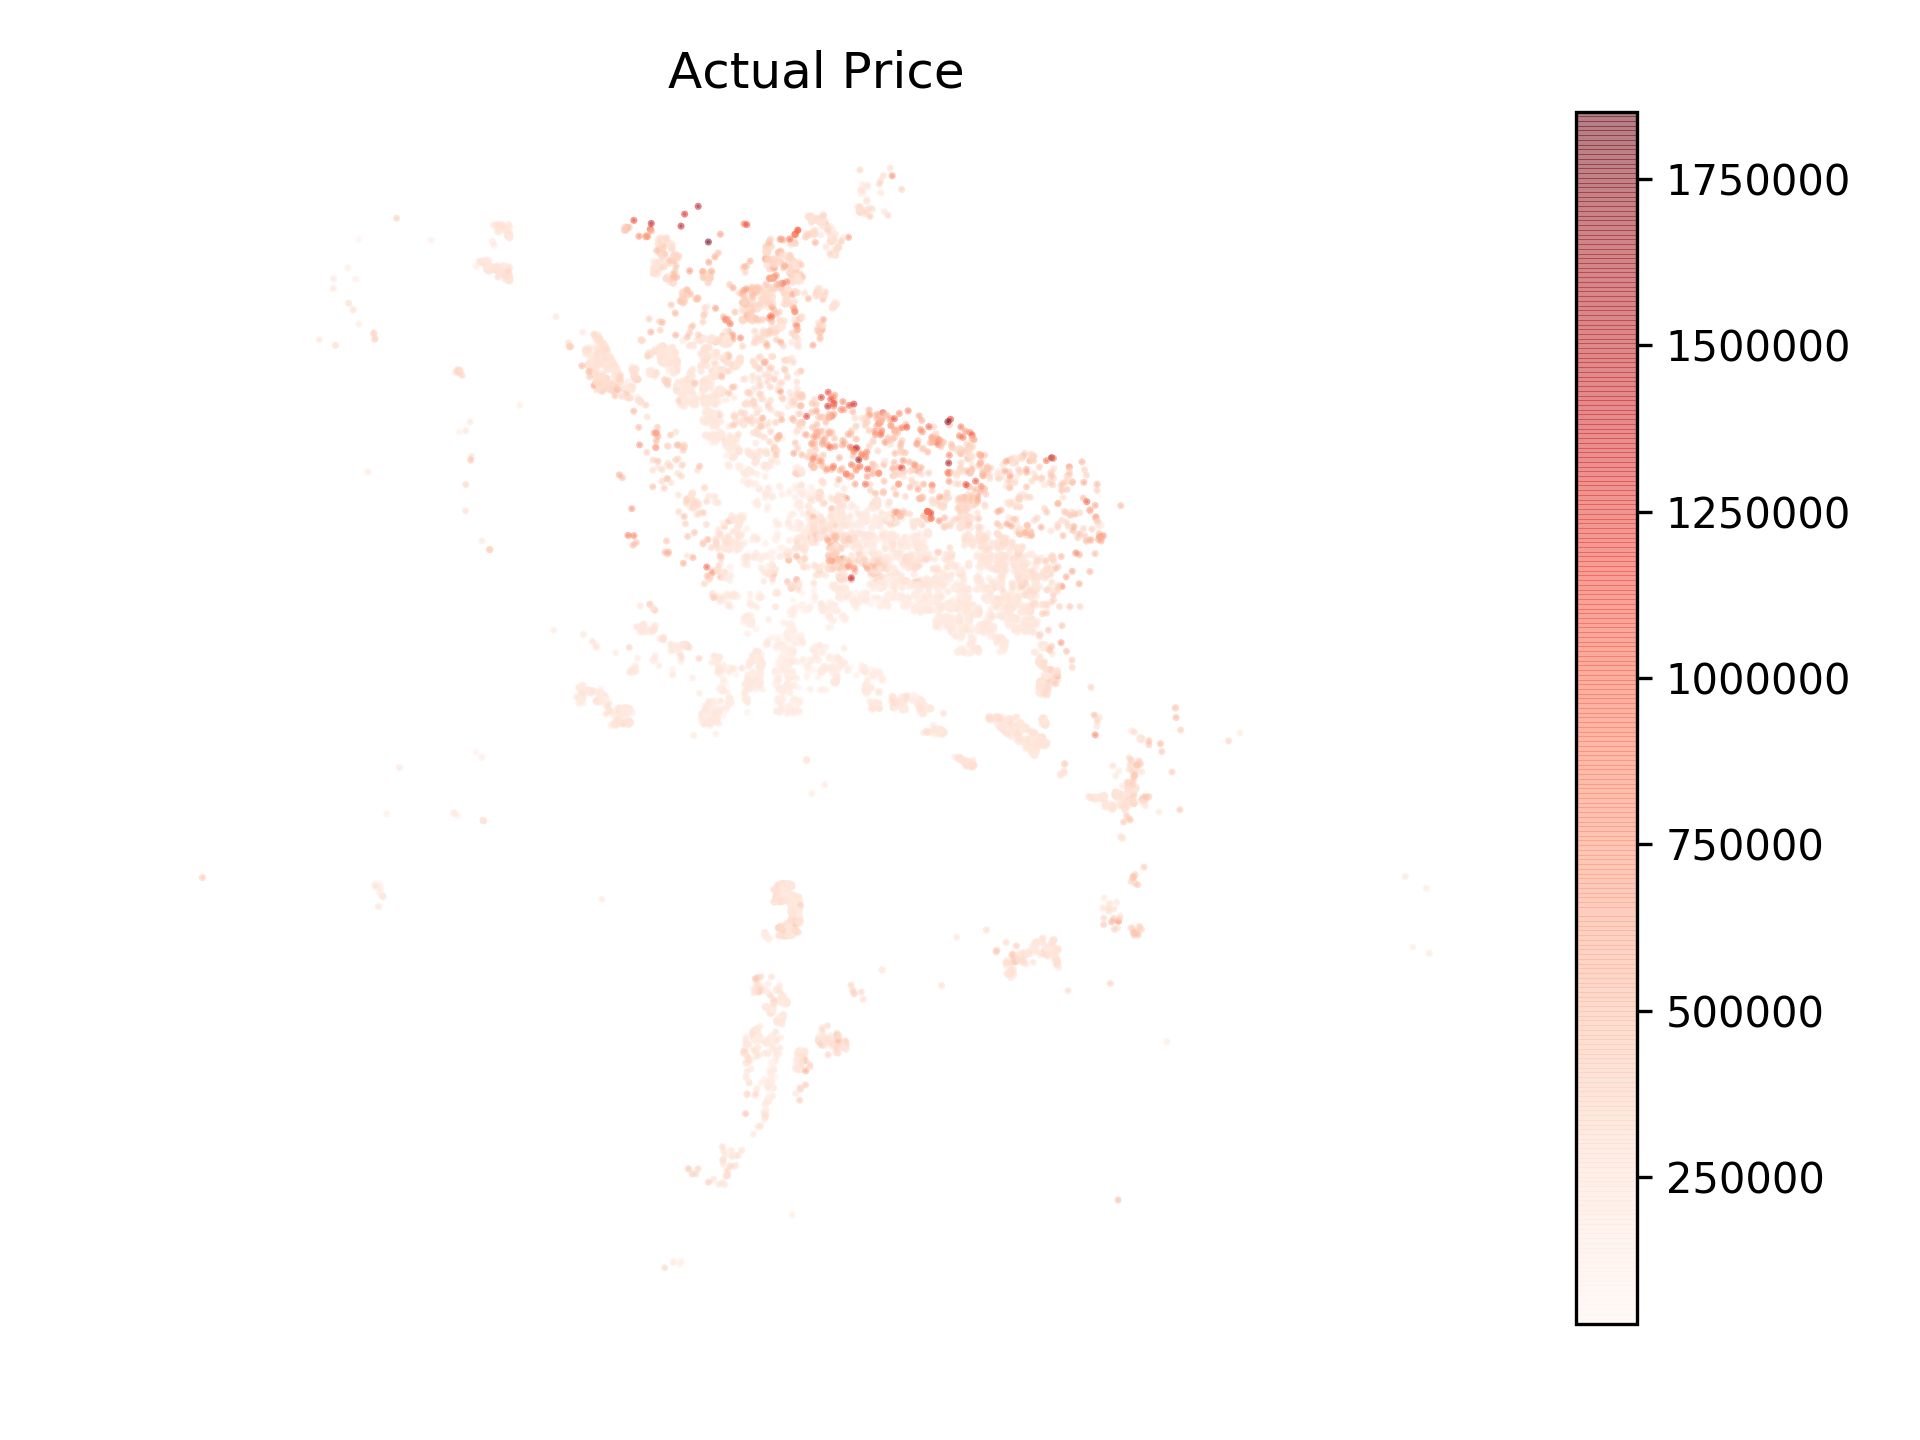
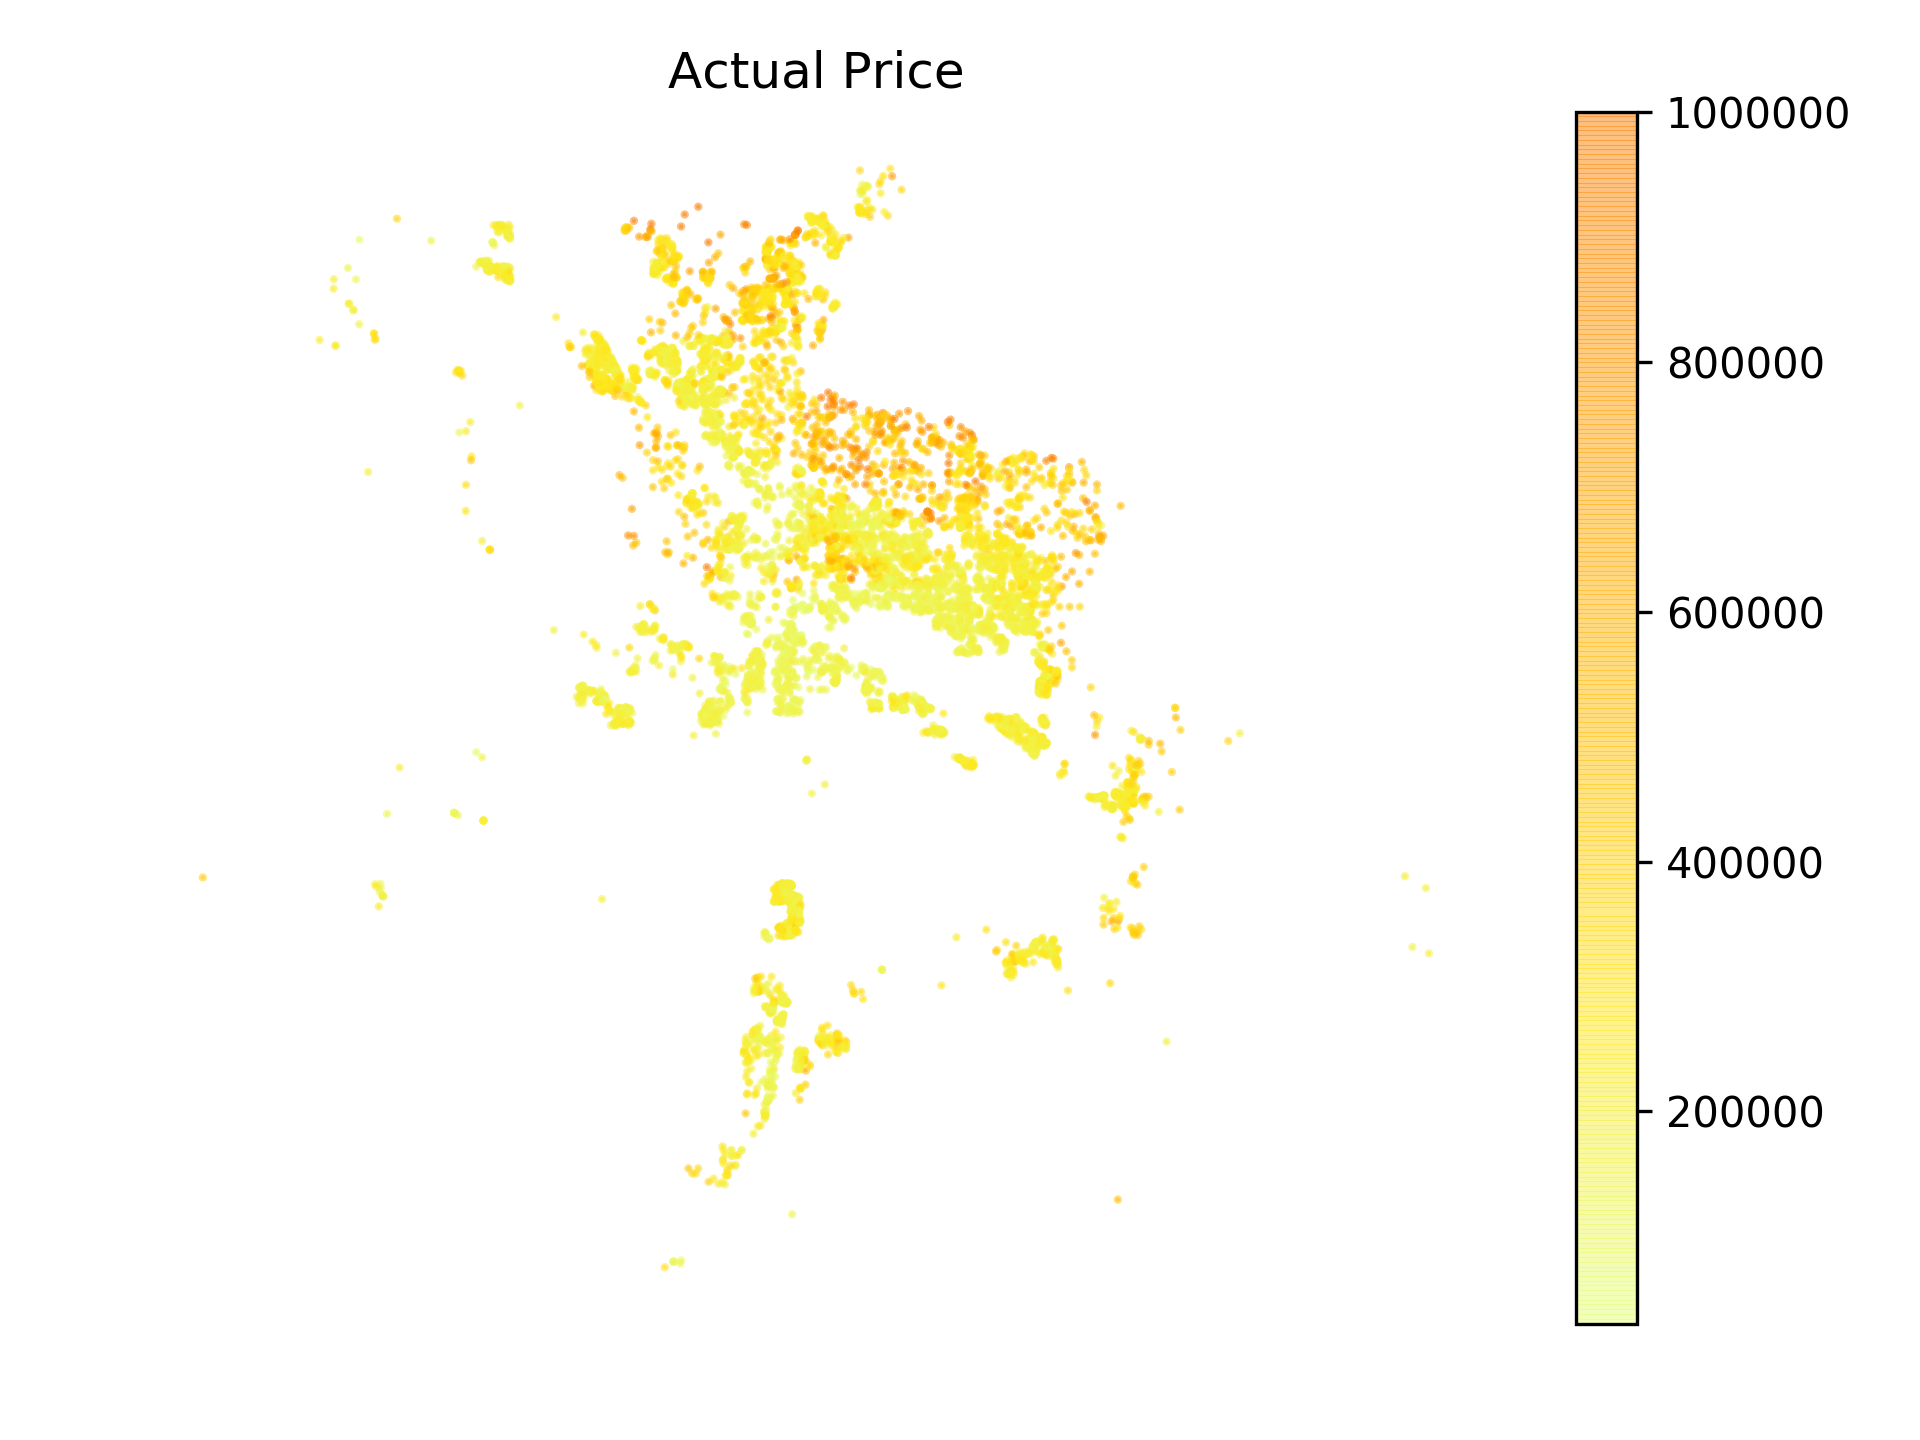
Added comments.

diff --git a/Advanced_Analysis/RandomForest.py b/Advanced_Analysis/RandomForest.py
@@ -168,15 +168,16 @@ if __name__ == "__main__":
     df_geographic["lon"] = df_hat["lon"]
     df_geographic["abs_percent_residual"] = abs(df_hat["predicted"] - df_hat[target]) / df_hat[target]
     # Residual color scheme
-    cmap = cm.get_cmap("Reds")
+    cmap = cm.get_cmap("Wistia")
     norm = (df_geographic["abs_percent_residual"] - df_geographic["abs_percent_residual"].min()) /\
            (df_geographic["abs_percent_residual"].max() - df_geographic["abs_percent_residual"].min())
     cutoff = .5
     norm_adj = df_geographic["abs_percent_residual"].apply(lambda x: min(x, cutoff))
     plt.figure()
-    plt.scatter(df_geographic["lon"], df_geographic["lat"], c=norm_adj, s=.5, cmap=cmap, alpha=.5)
+    plt.scatter(df_geographic["lon"], df_geographic["lat"], c=norm_adj, s=1, cmap=cmap, alpha=.5)
     plt.colorbar()
     plt.axis('off')
+    plt.figaspect(1)
     plt.title(f"{modelname} Absolute Percent Error (Capped at 50%)")
     plt.tight_layout()
     plt.savefig(f"figures/{modelname}_Abs_Geo_Residuals.png", dpi=dpi)
@@ -188,17 +189,19 @@ if __name__ == "__main__":
     df_geographic["lon"] = df_hat["lon"]
     df_geographic[target] = df_hat[target]
     # Residual color scheme
-    cmap = cm.get_cmap("Reds")
+    cmap = cm.get_cmap("Wistia")
     norm = (df_geographic[target] - df_geographic[target].min()) / \
            (df_geographic[target].max() - df_geographic[target].min())
-    cutoff = .5
+    cutoff = 1e6
+    adj = df_geographic[target].apply(lambda x: min(x, cutoff))
     #norm_adj = df_geographic[target].apply(lambda x: min(x, cutoff))
     plt.figure()
     #TODO
     #cbar.ax.set_yticklabels(np.arange(int(cbar_min), int(cbar_max + cbar_step), int(cbar_step)))
-    plt.scatter(df_geographic["lon"], df_geographic["lat"], c=df_geographic[target], s=.5, cmap=cmap, alpha=.5)
+    plt.scatter(df_geographic["lon"], df_geographic["lat"], c=adj, s=1, cmap=cmap, alpha=.5)
     plt.colorbar()
     plt.axis('off')
+    plt.figaspect(1)
     plt.title(f"Actual Price")
     plt.tight_layout()
     plt.savefig(f"figures/Actual_Geo.png", dpi=dpi)
